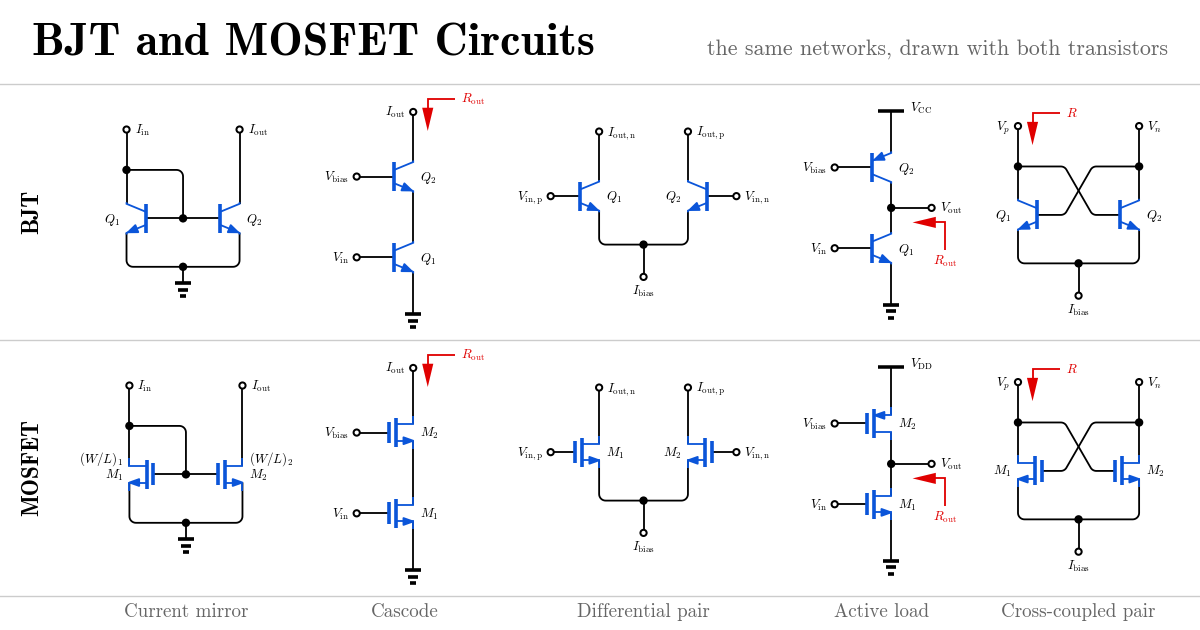
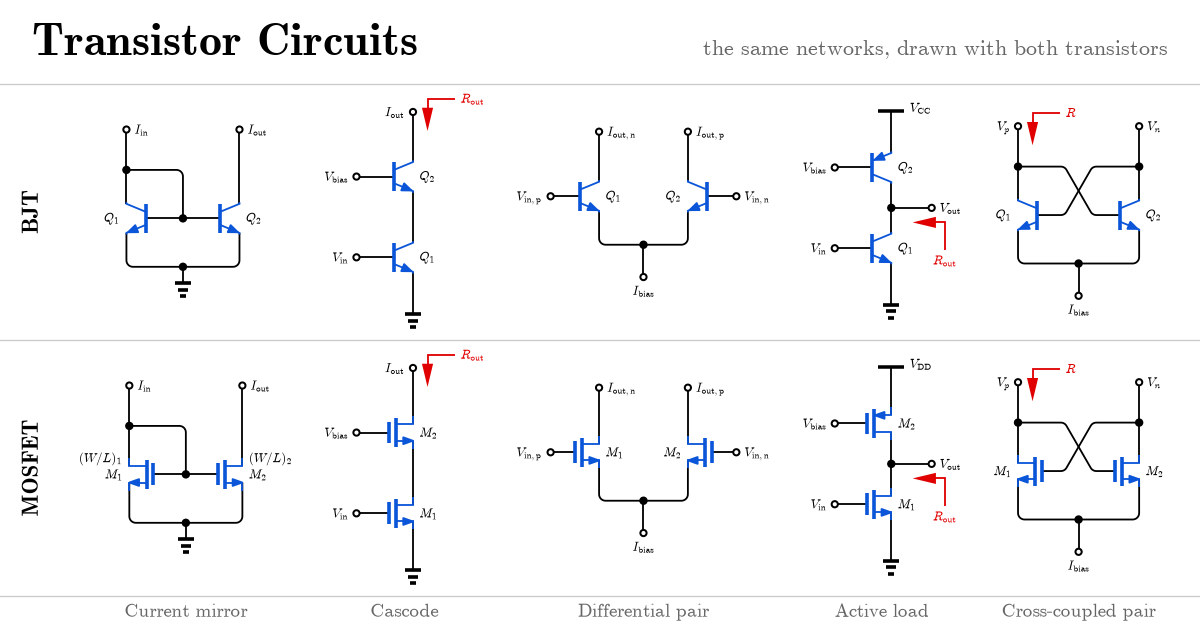
FME: the pages are called Transistor Circuits, Transistor Problem Sets and Transistor Problem Bank (were: BJT and MOSFET ...); style sheet, fit script, link preview and its picture follow the new names

diff --git a/_static/custom.css b/_static/custom.css
@@ -35,101 +35,101 @@ p {
     text-align: left;
 }
 
-/* courses/fme, every page (BJT and MOSFET Circuits, Problem Sets, the six Problem Bank pages).
+/* courses/fme, every page (Transistor Circuits, Problem Sets, the six Problem Bank pages).
    The theme shows tables as scrollable blocks whose columns follow their content.  On the FME pages
    every table and every figure has the same three columns over the text width: a label (20 %),
    then BJT and MOSFET, exactly 40 % each.  The label column is wide enough for "Answer 12" on one
    line down to a table of 520 px (a fifth of that holds the label and its padding); on a screen too
    narrow for that the table keeps this width and scrolls sideways.  The text column of the site is
    612 px wide in a 1200 px window, so the least width must stay below that. */
-:is(#bjt-and-mosfet-circuits, #bjt-and-mosfet-problem-sets, #bjt-and-mosfet-problem-bank-one-transistor,
-    #bjt-and-mosfet-problem-bank-bias, #bjt-and-mosfet-problem-bank-amplifier-stages,
-    #bjt-and-mosfet-problem-bank-cascodes-and-current-mirrors, #bjt-and-mosfet-problem-bank-differential-pairs,
-    #bjt-and-mosfet-problem-bank-other-items) table {
+:is(#transistor-circuits, #transistor-problem-sets, #transistor-problem-bank-one-transistor,
+    #transistor-problem-bank-bias, #transistor-problem-bank-amplifier-stages,
+    #transistor-problem-bank-cascodes-and-current-mirrors, #transistor-problem-bank-differential-pairs,
+    #transistor-problem-bank-other-items) table {
     display: table;
     width: 100%;
     min-width: 520px;
     table-layout: fixed;
 }
-:is(#bjt-and-mosfet-circuits, #bjt-and-mosfet-problem-sets, #bjt-and-mosfet-problem-bank-one-transistor,
-    #bjt-and-mosfet-problem-bank-bias, #bjt-and-mosfet-problem-bank-amplifier-stages,
-    #bjt-and-mosfet-problem-bank-cascodes-and-current-mirrors, #bjt-and-mosfet-problem-bank-differential-pairs,
-    #bjt-and-mosfet-problem-bank-other-items) :is(td, th) {
+:is(#transistor-circuits, #transistor-problem-sets, #transistor-problem-bank-one-transistor,
+    #transistor-problem-bank-bias, #transistor-problem-bank-amplifier-stages,
+    #transistor-problem-bank-cascodes-and-current-mirrors, #transistor-problem-bank-differential-pairs,
+    #transistor-problem-bank-other-items) :is(td, th) {
     overflow-x: auto;
     vertical-align: top;
 }
-:is(#bjt-and-mosfet-circuits, #bjt-and-mosfet-problem-sets, #bjt-and-mosfet-problem-bank-one-transistor,
-    #bjt-and-mosfet-problem-bank-bias, #bjt-and-mosfet-problem-bank-amplifier-stages,
-    #bjt-and-mosfet-problem-bank-cascodes-and-current-mirrors, #bjt-and-mosfet-problem-bank-differential-pairs,
-    #bjt-and-mosfet-problem-bank-other-items) :is(td, th) p {
+:is(#transistor-circuits, #transistor-problem-sets, #transistor-problem-bank-one-transistor,
+    #transistor-problem-bank-bias, #transistor-problem-bank-amplifier-stages,
+    #transistor-problem-bank-cascodes-and-current-mirrors, #transistor-problem-bank-differential-pairs,
+    #transistor-problem-bank-other-items) :is(td, th) p {
     text-align: left;
 }
-:is(#bjt-and-mosfet-circuits, #bjt-and-mosfet-problem-sets, #bjt-and-mosfet-problem-bank-one-transistor,
-    #bjt-and-mosfet-problem-bank-bias, #bjt-and-mosfet-problem-bank-amplifier-stages,
-    #bjt-and-mosfet-problem-bank-cascodes-and-current-mirrors, #bjt-and-mosfet-problem-bank-differential-pairs,
-    #bjt-and-mosfet-problem-bank-other-items) .cell_output {
+:is(#transistor-circuits, #transistor-problem-sets, #transistor-problem-bank-one-transistor,
+    #transistor-problem-bank-bias, #transistor-problem-bank-amplifier-stages,
+    #transistor-problem-bank-cascodes-and-current-mirrors, #transistor-problem-bank-differential-pairs,
+    #transistor-problem-bank-other-items) .cell_output {
     padding-left: 0;
 }
-:is(#bjt-and-mosfet-circuits, #bjt-and-mosfet-problem-sets, #bjt-and-mosfet-problem-bank-one-transistor,
-    #bjt-and-mosfet-problem-bank-bias, #bjt-and-mosfet-problem-bank-amplifier-stages,
-    #bjt-and-mosfet-problem-bank-cascodes-and-current-mirrors, #bjt-and-mosfet-problem-bank-differential-pairs,
-    #bjt-and-mosfet-problem-bank-other-items) .cell_output img {
+:is(#transistor-circuits, #transistor-problem-sets, #transistor-problem-bank-one-transistor,
+    #transistor-problem-bank-bias, #transistor-problem-bank-amplifier-stages,
+    #transistor-problem-bank-cascodes-and-current-mirrors, #transistor-problem-bank-differential-pairs,
+    #transistor-problem-bank-other-items) .cell_output img {
     width: 100%;
 }
 /* the three columns: 20 % | 40 % | 40 % */
-:is(#bjt-and-mosfet-circuits, #bjt-and-mosfet-problem-sets, #bjt-and-mosfet-problem-bank-one-transistor,
-    #bjt-and-mosfet-problem-bank-bias, #bjt-and-mosfet-problem-bank-amplifier-stages,
-    #bjt-and-mosfet-problem-bank-cascodes-and-current-mirrors, #bjt-and-mosfet-problem-bank-differential-pairs,
-    #bjt-and-mosfet-problem-bank-other-items) table :is(th, td):nth-child(1) { width: 20%; }
-:is(#bjt-and-mosfet-circuits, #bjt-and-mosfet-problem-sets, #bjt-and-mosfet-problem-bank-one-transistor,
-    #bjt-and-mosfet-problem-bank-bias, #bjt-and-mosfet-problem-bank-amplifier-stages,
-    #bjt-and-mosfet-problem-bank-cascodes-and-current-mirrors, #bjt-and-mosfet-problem-bank-differential-pairs,
-    #bjt-and-mosfet-problem-bank-other-items) table :is(th, td):nth-child(2),
-:is(#bjt-and-mosfet-circuits, #bjt-and-mosfet-problem-sets, #bjt-and-mosfet-problem-bank-one-transistor,
-    #bjt-and-mosfet-problem-bank-bias, #bjt-and-mosfet-problem-bank-amplifier-stages,
-    #bjt-and-mosfet-problem-bank-cascodes-and-current-mirrors, #bjt-and-mosfet-problem-bank-differential-pairs,
-    #bjt-and-mosfet-problem-bank-other-items) table :is(th, td):nth-child(3) { width: 40%; }
+:is(#transistor-circuits, #transistor-problem-sets, #transistor-problem-bank-one-transistor,
+    #transistor-problem-bank-bias, #transistor-problem-bank-amplifier-stages,
+    #transistor-problem-bank-cascodes-and-current-mirrors, #transistor-problem-bank-differential-pairs,
+    #transistor-problem-bank-other-items) table :is(th, td):nth-child(1) { width: 20%; }
+:is(#transistor-circuits, #transistor-problem-sets, #transistor-problem-bank-one-transistor,
+    #transistor-problem-bank-bias, #transistor-problem-bank-amplifier-stages,
+    #transistor-problem-bank-cascodes-and-current-mirrors, #transistor-problem-bank-differential-pairs,
+    #transistor-problem-bank-other-items) table :is(th, td):nth-child(2),
+:is(#transistor-circuits, #transistor-problem-sets, #transistor-problem-bank-one-transistor,
+    #transistor-problem-bank-bias, #transistor-problem-bank-amplifier-stages,
+    #transistor-problem-bank-cascodes-and-current-mirrors, #transistor-problem-bank-differential-pairs,
+    #transistor-problem-bank-other-items) table :is(th, td):nth-child(3) { width: 40%; }
 /* inside a tab (problem bank: one tab per transistor) a table has two columns: the label of the row and
    the row itself.  A tab is narrower than the text, so the table gives up the least width of the other
    tables and fills its tab: the label column keeps the width it has everywhere (128 px, "Answer 12" on
    one line) and the row takes all the rest, so nothing lies beyond the right edge of the tab. */
-:is(#bjt-and-mosfet-problem-bank-one-transistor, #bjt-and-mosfet-problem-bank-bias,
-    #bjt-and-mosfet-problem-bank-amplifier-stages, #bjt-and-mosfet-problem-bank-cascodes-and-current-mirrors,
-    #bjt-and-mosfet-problem-bank-differential-pairs, #bjt-and-mosfet-problem-bank-other-items)
+:is(#transistor-problem-bank-one-transistor, #transistor-problem-bank-bias,
+    #transistor-problem-bank-amplifier-stages, #transistor-problem-bank-cascodes-and-current-mirrors,
+    #transistor-problem-bank-differential-pairs, #transistor-problem-bank-other-items)
     .sd-tab-content table { min-width: 0; }
-:is(#bjt-and-mosfet-problem-bank-one-transistor, #bjt-and-mosfet-problem-bank-bias,
-    #bjt-and-mosfet-problem-bank-amplifier-stages, #bjt-and-mosfet-problem-bank-cascodes-and-current-mirrors,
-    #bjt-and-mosfet-problem-bank-differential-pairs, #bjt-and-mosfet-problem-bank-other-items)
+:is(#transistor-problem-bank-one-transistor, #transistor-problem-bank-bias,
+    #transistor-problem-bank-amplifier-stages, #transistor-problem-bank-cascodes-and-current-mirrors,
+    #transistor-problem-bank-differential-pairs, #transistor-problem-bank-other-items)
     .sd-tab-content table :is(th, td):nth-child(1) { width: 128px; }
-:is(#bjt-and-mosfet-problem-bank-one-transistor, #bjt-and-mosfet-problem-bank-bias,
-    #bjt-and-mosfet-problem-bank-amplifier-stages, #bjt-and-mosfet-problem-bank-cascodes-and-current-mirrors,
-    #bjt-and-mosfet-problem-bank-differential-pairs, #bjt-and-mosfet-problem-bank-other-items)
+:is(#transistor-problem-bank-one-transistor, #transistor-problem-bank-bias,
+    #transistor-problem-bank-amplifier-stages, #transistor-problem-bank-cascodes-and-current-mirrors,
+    #transistor-problem-bank-differential-pairs, #transistor-problem-bank-other-items)
     .sd-tab-content table :is(th, td):nth-child(2) { width: auto; }
 /* nothing in the label column is clipped or put behind a scroll bar: its text wraps between words */
-:is(#bjt-and-mosfet-circuits, #bjt-and-mosfet-problem-sets, #bjt-and-mosfet-problem-bank-one-transistor,
-    #bjt-and-mosfet-problem-bank-bias, #bjt-and-mosfet-problem-bank-amplifier-stages,
-    #bjt-and-mosfet-problem-bank-cascodes-and-current-mirrors, #bjt-and-mosfet-problem-bank-differential-pairs,
-    #bjt-and-mosfet-problem-bank-other-items) table :is(th, td):nth-child(1) {
+:is(#transistor-circuits, #transistor-problem-sets, #transistor-problem-bank-one-transistor,
+    #transistor-problem-bank-bias, #transistor-problem-bank-amplifier-stages,
+    #transistor-problem-bank-cascodes-and-current-mirrors, #transistor-problem-bank-differential-pairs,
+    #transistor-problem-bank-other-items) table :is(th, td):nth-child(1) {
     overflow: visible;
     overflow-wrap: normal;
     word-break: normal;
     hyphens: none;
 }
 /* the column heads BJT and MOSFET sit in the middle of their cells, as they do above the drawings */
-:is(#bjt-and-mosfet-circuits, #bjt-and-mosfet-problem-sets, #bjt-and-mosfet-problem-bank-one-transistor,
-    #bjt-and-mosfet-problem-bank-bias, #bjt-and-mosfet-problem-bank-amplifier-stages,
-    #bjt-and-mosfet-problem-bank-cascodes-and-current-mirrors, #bjt-and-mosfet-problem-bank-differential-pairs,
-    #bjt-and-mosfet-problem-bank-other-items) table th:is(:nth-child(2), :nth-child(3)),
-:is(#bjt-and-mosfet-circuits, #bjt-and-mosfet-problem-sets, #bjt-and-mosfet-problem-bank-one-transistor,
-    #bjt-and-mosfet-problem-bank-bias, #bjt-and-mosfet-problem-bank-amplifier-stages,
-    #bjt-and-mosfet-problem-bank-cascodes-and-current-mirrors, #bjt-and-mosfet-problem-bank-differential-pairs,
-    #bjt-and-mosfet-problem-bank-other-items) table th:is(:nth-child(2), :nth-child(3)) p {
+:is(#transistor-circuits, #transistor-problem-sets, #transistor-problem-bank-one-transistor,
+    #transistor-problem-bank-bias, #transistor-problem-bank-amplifier-stages,
+    #transistor-problem-bank-cascodes-and-current-mirrors, #transistor-problem-bank-differential-pairs,
+    #transistor-problem-bank-other-items) table th:is(:nth-child(2), :nth-child(3)),
+:is(#transistor-circuits, #transistor-problem-sets, #transistor-problem-bank-one-transistor,
+    #transistor-problem-bank-bias, #transistor-problem-bank-amplifier-stages,
+    #transistor-problem-bank-cascodes-and-current-mirrors, #transistor-problem-bank-differential-pairs,
+    #transistor-problem-bank-other-items) table th:is(:nth-child(2), :nth-child(3)) p {
     text-align: center;
 }
 /* the row labels of the problem pages (Problem, Given, Answer 1, ..., Result, Check) stay on one line */
-:is(#bjt-and-mosfet-problem-sets, #bjt-and-mosfet-problem-bank-one-transistor, #bjt-and-mosfet-problem-bank-bias,
-    #bjt-and-mosfet-problem-bank-amplifier-stages, #bjt-and-mosfet-problem-bank-cascodes-and-current-mirrors,
-    #bjt-and-mosfet-problem-bank-differential-pairs, #bjt-and-mosfet-problem-bank-other-items) td:first-child strong {
+:is(#transistor-problem-sets, #transistor-problem-bank-one-transistor, #transistor-problem-bank-bias,
+    #transistor-problem-bank-amplifier-stages, #transistor-problem-bank-cascodes-and-current-mirrors,
+    #transistor-problem-bank-differential-pairs, #transistor-problem-bank-other-items) td:first-child strong {
     white-space: nowrap;
 }
 

diff --git a/_static/fme-fit.js b/_static/fme-fit.js
@@ -5,7 +5,7 @@
    changes its width. */
 (function () {
     function fit() {
-        var formulas = document.querySelectorAll('section[id^="bjt-and-mosfet-"] td mjx-container');
+        var formulas = document.querySelectorAll('section[id^="transistor-"] td mjx-container');
         formulas.forEach(function (m) { m.style.removeProperty('zoom'); });
         formulas.forEach(function (m) {
             var cell = m.closest('td');
@@ -26,7 +26,7 @@
         }
     }
     function start() {
-        if (!document.querySelector('section[id^="bjt-and-mosfet-"]')) { return; }
+        if (!document.querySelector('section[id^="transistor-"]')) { return; }
         whenSet(0);
         window.addEventListener('resize', fit);
         /* a tab that was hidden has no width until it is shown: fit its formulas when a tab is chosen */

diff --git a/_ext/linkpreview.py b/_ext/linkpreview.py
@@ -8,7 +8,7 @@ SITE_NAME = 'Intelligent Visual Computing'
 
 PAGES = {
     'courses/fme/index': dict(
-        title='BJT and MOSFET Circuits',
+        title='Transistor Circuits',
         description='One transistor in eight roles, its impedances and gains, and forty-two circuits of two '
                     'transistors, each drawn as a BJT version and as a MOSFET version.',
         image='_images/fme_gallery.png', width=1200, height=630,
